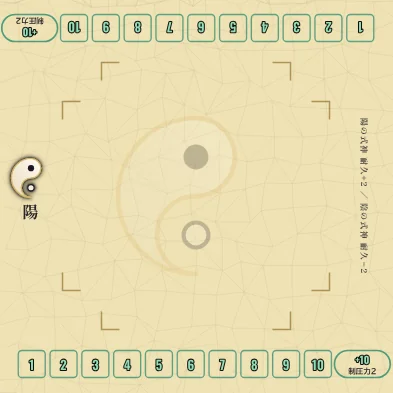
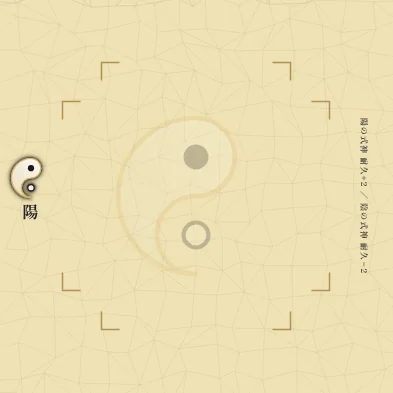
feat: 公開版を初めて遊ぶ人向けに直した
- 手札の引き直し(マリガン)の説明を、何を選んで何を押せばよいかがわかる言い方にした
- 盤のマスから紙の盤の耐久の目盛りを外した
- 公開版のAIを「ふつう・つよい」の2つにし、最初は「ふつう」にした(深いは速いとほぼ同じ強さだったので外した)

Claude-Session: https://claude.ai/code/session_01EFKKipHgPRZcCDHPPHufEG

Changed region(s): [[0.0305, 0.8855, 1.0, 0.9771], [0.0, 0.0305, 0.9771, 0.1221]]

diff --git a/sim2/play/ui.ts b/sim2/play/ui.ts
@@ -160,7 +160,7 @@ const promptOf = (g: Game): TablePrompt => {
     const who = f.state.winner === null ? "引き分け" : f.state.winner === g.human ? "あなたの勝ち" : "AIの勝ち";
     return { kind: "over", text: `対局終了 — ${who}`, winner: f.state.winner };
   }
-  if (ph.kind === "mulligan") return ph.submitted[g.human] ? { kind: "idle", text: "AIのマリガン待ち…" } : { kind: "mulligan" };
+  if (ph.kind === "mulligan") return ph.submitted[g.human] ? { kind: "idle", text: "AIが手札を引き直しています…" } : { kind: "mulligan" };
   if (ph.kind === "counterOrder" && ph.player !== g.human) return { kind: "idle", text: "相手が反撃の順番を選んでいます…" };
   if (ph.kind === "lantern" && ph.player !== g.human) return { kind: "idle", text: "相手が灯籠の精の灯を託す相手を選んでいます…" };
   if (ph.kind === "kyonshi" && ph.player !== g.human) return { kind: "idle", text: "相手が僵尸公主の向きを選んでいます…" };
@@ -224,13 +224,21 @@ const refresh = (): void => {
   table.update(model);
 };
 
+/** The public build's AI choice: two levels named for a first game. */
+const PUBLIC_AI_LABELS: Record<AiKind, string> = { greedy: "ふつう", beam: "ふつう", strong: "つよい" };
+const aiLabel = (k: AiKind): string => (isPublicSite() ? PUBLIC_AI_LABELS[k] : AI_LABELS[k]);
+const aiChoices = (): readonly AiKind[] => (isPublicSite() ? ["greedy", "strong"] : AI_KINDS);
+
 // ------------------------------------------------------------- storage
 
 /** The start card's choices (this tab); the settings are kept encoded, as in a share URL. */
 const remembered = readAiSetup(stores);
 const rememberedSetup: AiSetup = remembered === null ? defaultAiSetup() : { ...remembered, s: upgradeLegacyPack(remembered.s) };
 // the public build plays the decided rules and cards only, whatever this tab remembered
-let setup: AiSetup = isPublicSite() ? { ...rememberedSetup, s: encodeSettings(defaultSettings()) } : rememberedSetup;
+// and offers two AIs: ふつう (greedy; 深い plays about as well) and つよい, ふつう first
+let setup: AiSetup = isPublicSite()
+  ? { ...rememberedSetup, s: encodeSettings(defaultSettings()), ai: remembered === null || rememberedSetup.ai === "beam" ? "greedy" : rememberedSetup.ai }
+  : rememberedSetup;
 
 const saveSetup = (next: AiSetup): void => {
   setup = next;
@@ -430,7 +438,7 @@ const startCardHtml = (settings: GameSettings, printed: CardPack | null, problem
   const encoded = encodeSettings(settings);
   const fields = `<div class="entry-grid">
       <label>あなたの席<select name="seat" data-first>${option("0", "先手", o.human === 0)}${option("1", "後手", o.human === 1)}</select></label>
-      <label>AI<select name="ai">${AI_KINDS.map((k) => option(k, AI_LABELS[k], o.ai === k)).join("")}</select></label>
+      <label>AI<select name="ai">${aiChoices().map((k) => option(k, aiLabel(k), o.ai === k)).join("")}</select></label>
     </div>
     ${moreHtml(`<label>AIの方針<select name="eval">${EVAL_PROFILE_NAMES.map((p) => option(p, p, p === o.evalName)).join("")}</select></label>
       <label>シード<input name="seed" type="number" value="${o.seed}" inputmode="numeric"></label>${
@@ -530,7 +538,7 @@ const renderBadge = (g: Game): void => {
 const aiOf = (start: Start): { ai: AiSeat; label: string } => ({
   // the seed only perturbs exact ties, so the same match still replays identically
   ai: makeAi(start.ai, start.evalName, { seed: start.seed }),
-  label: `AI ${AI_LABELS[start.ai]}`,
+  label: `AI ${aiLabel(start.ai)}`,
 });
 
 /** The table shows a match: the URL loses its ?s= (a reload resumes the match, not the start card). */

diff --git a/sim2/play/prompt-view.ts b/sim2/play/prompt-view.ts
@@ -406,12 +406,14 @@ export const promptHtml = (vm: PromptVM): string => {
     case "mulligan": {
       const mull = p.kind === "mulligan";
       const hint = mull
-        ? "マリガン: 山札に戻す札を、手札の札を触って選ぶ(戻した枚数だけ引き直す)"
+        ? vm.ctx.cfg.mulliganTo === "grave"
+          ? "最初の手札を1回だけ引き直せます。入れ替えたい札を触って選んでください(選んだ札は捨て札になり、同じ枚数を引きます)。このままでよければ「このまま始める」"
+          : "最初の手札を1回だけ引き直せます。入れ替えたい札を触って選んでください(選んだ札は山札に戻し、同じ枚数を引きます)。このままでよければ「このまま始める」"
         : vm.ctx.cfg.handMode === "replace_discarded"
           ? "手札整理: 捨てる札を、手札の札を触って選ぶ(0枚でもよい)。捨てた枚数だけ引く"
           : `手札整理: 捨てる札を、手札の札を触って選ぶ(0枚でもよい)。確定すると${vm.ctx.cfg.handRefill}枚まで引く`;
       // nothing chosen yet: "0枚戻して引き直す" would only repeat the other button, so it waits for a choice
-      const confirm = vm.marked === 0 ? [] : [btn("marks", mull ? `${vm.marked}枚戻して引き直す` : `${vm.marked}枚捨てて確定`, "btn-gold")];
+      const confirm = vm.marked === 0 ? [] : [btn("marks", mull ? `${vm.marked}枚を引き直す` : `${vm.marked}枚捨てて確定`, "btn-gold")];
       return bar(p.kind, hint, [], [
         ...confirm,
         btn("marks-none", mull ? "このまま始める" : "捨てずに確定", vm.marked === 0 ? "btn-gold" : "btn-quiet"),

diff --git a/sim2/play/guide.html b/sim2/play/guide.html
@@ -95,7 +95,7 @@
     <li>それぞれ自分の23枚をよく切って、裏向きの<b>山札</b>にします。</li>
     <li>山札の上から<b>5枚</b>引いて手札にします。</li>
     <li>先手と後手を決めます。<b>先手は霊力6、後手は霊力8</b>で始めます(後手は先に動けない分の埋め合わせ)。</li>
-    <li><b>マリガン</b>: 最初のターンの前に1回だけ、手札を引き直せます。好きな枚数(0枚でもよい)を山札に戻して切り直し、戻した枚数だけ引きます。</li>
+    <li><b>手札の引き直し(マリガン)</b>: 最初のターンの前に1回だけ、手札を引き直せます。好きな枚数(0枚でもよい)を山札に戻して切り直し、戻した枚数だけ引きます。</li>
   </ol>
   <p class="g-tip"><b>こつ</b>召☆5以上の重い式神を戻して、序盤に出せる札を探すのが基本です。</p>
 </section>

diff --git a/sim2/online/client.ts b/sim2/online/client.ts
@@ -283,7 +283,7 @@ const promptOf = (msg: StateMessage, names: Names): TablePrompt => {
   }
   if (ph.kind === "mulligan") {
     if (seat !== null && !ph.submitted[seat]) return { kind: "mulligan" };
-    return { kind: "idle", text: seat === null ? "両者のマリガン待ち" : "相手のマリガン待ち…" };
+    return { kind: "idle", text: seat === null ? "両者の手札の引き直し待ち" : "相手が手札を引き直しています…" };
   }
   if (ph.kind === "counterOrder" && ph.player !== seat) {
     return { kind: "idle", text: seat === ph.attacker ? "相手が反撃の順番を選んでいます…" : `${names[ph.player]}が反撃の順番を選んでいます…` };

diff --git a/sim2/play/hud.ts b/sim2/play/hud.ts
@@ -160,7 +160,7 @@ export const turnHtml = (ctx: Ctx, board: BoardView, names: Names, info: TurnInf
   const who = board.ended
     ? "対局終了"
     : info.mulligan === true
-      ? "マリガン(両者)"
+      ? "手札の引き直し"
       : `<span class="turn-seal">${SEAT_SEAL[p]}</span><span><span class="turn-name${turnName(names[p], p) === "あなた" ? " is-you" : ""}">${esc(turnName(names[p], p))}</span>の番</span>`;
   const how = board.ended ? resultHow(board.winType, board.winner, names, endOcc(ctx, board), endCold(ctx, board)) : null;
   const result =

diff --git a/sim2/test/table-views.test.ts b/sim2/test/table-views.test.ts
@@ -95,7 +95,7 @@ test("acted marks show only on the turn player's pieces; a piece prints no name 
 test("turn panel: both seats during the mulligan, the result once over (no doubled 対局終了), life never below 0", () => {
   const s = blankState(ctx);
   const mull = turnHtml(ctx, boardView(s), NAMES, { phaseText: "マリガン", mulligan: true });
-  assert.match(mull, /マリガン\(両者\)/);
+  assert.match(mull, /手札の引き直し/);
   assert.doesNotMatch(mull, /の番/);
   s.ended = true;
   s.winner = 1;

diff --git a/sim2/play/render.ts b/sim2/play/render.ts
@@ -248,8 +248,8 @@ export const describeEvent = (ctx: Ctx, names: Names, e: GameEvent | FlowEvent, 
     case "mulligan":
       return {
         text: e.returned > 0
-          ? `${seat(e.player)}: マリガンで${e.returned}枚戻して引き直し`
-          : `${seat(e.player)}: マリガンなし`,
+          ? `${seat(e.player)}: 手札を${e.returned}枚引き直し`
+          : `${seat(e.player)}: 手札の引き直しなし`,
         cls: "",
       };
     case "mulliganCards":
